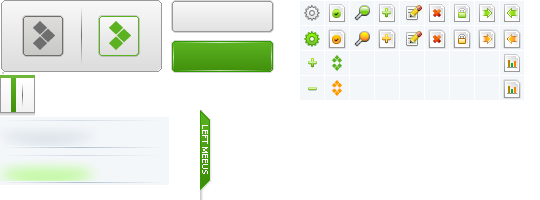
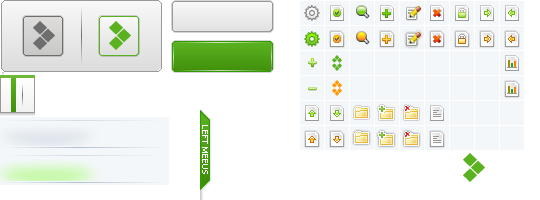
log

diff --git a/webmis/css/admin.css b/webmis/css/admin.css
@@ -20,11 +20,16 @@ input:focus, textarea:focus{
 
 .UI{background-image:url("../images/admin_ui.jpg"); background-repeat: no-repeat; background-position:0px 0px;}
 
+/* Checkbox */
+#checkboxY,#checkboxN{padding: 2px 6px;}
+#checkboxN{display: none;}
+
 /* Color */
 .c666{color: #666;}
 .c999{color: #999;}
 .green{color: green;}
 .red{color: #D34600;}
+
 /* login */
 .login_bg{background: url("../images/admin_login_bg.gif") top repeat-x #B6B6B6;}
 .login_top_bg{background: url("../images/admin_top_bg.jpg") top right no-repeat;}
@@ -121,10 +126,23 @@ input:focus, textarea:focus{
 .action_chart em{background-position: -500px -52px;}
 .action_chart:hover em{background-position: -500px -78px;}
 
+.action_upload em{background-position: -300px -102px;}
+.action_upload:hover em{background-position: -300px -128px;}
+.action_down em{background-position: -325px -102px;}
+.action_down:hover em{background-position: -325px -128px;}
+.action_folder em{background-position: -350px -102px;}
+.action_folder:hover em{background-position: -350px -128px;}
+.action_addfolder em{background-position: -375px -102px;}
+.action_addfolder:hover em{background-position: -375px -128px;}
+.action_delfolder em{background-position: -400px -102px;}
+.action_delfolder:hover em{background-position: -400px -128px;}
+.action_file em{background-position: -425px -102px;}
+.action_file:hover em{background-position: -425px -128px;}
+
 
 /* Table */
 .table_list{width: 100%; border-collapse: collapse; text-align: center; border-top: #6FB737 2px solid; background: #FFF;}
-.table_list td{border: #CFCFCF 1px solid; padding: 6px 5px;}
+.table_list td{border: #CFCFCF 1px solid; padding: 5px;}
 .table_list .title{color: #666; font-weight: bold; background: url("../images/admin_tb_x.jpg") repeat-x #F4F7FA;}
 .page{height: 50px; line-height: 50px; text-align: center; color: #999; background: url("../images/admin_top_nav_x.jpg") 0 -71px repeat-x;}
 

diff --git a/webmis/css/webmis.css b/webmis/css/webmis.css
@@ -43,7 +43,7 @@
 .Validform_wrong{color:red; white-space:nowrap; background:url(../images/error.png) no-repeat left center;}
 .Validform_loading{padding-left:20px; background:url(../images/onLoad.gif) no-repeat left center;}
 .Validform_error{background-color:#ffe7e7;}
-#Validform_msg{color:#7d8289; font: 12px/1.5 tahoma, arial, \5b8b\4f53, sans-serif; width:280px; -webkit-box-shadow:2px 2px 3px #aaa; -moz-box-shadow:2px 2px 3px #aaa; background:#fff; position:absolute; top:0px; right:50px; z-index:99999; display:none;filter: progid:DXImageTransform.Microsoft.Shadow(Strength=3, Direction=135, Color='#999999');}
+#Validform_msg{color:#7d8289; font: 12px/1.5 tahoma, arial, \5b8b\4f53, sans-serif; width:280px; box-shadow:2px 2px 3px #aaa; background:#fff; position:absolute; top:0px; right:50px; z-index:99999; display:none;filter: progid:DXImageTransform.Microsoft.Shadow(Strength=3, Direction=135, Color='#999999');}
 #Validform_msg .iframe{position:absolute; left:0px; top:-1px; z-index:-1;}
 #Validform_msg .Validform_title{line-height:25px; height:25px; text-align:left; font-weight:bold; padding:0 8px; color:#fff; position:relative; background-color:#000;}
 #Validform_msg a.Validform_close:link,#Validform_msg a.Validform_close:visited{line-height:22px; position:absolute; right:8px; top:0px; color:#fff; text-decoration:none;}

diff --git a/webmis/js/admin.js b/webmis/js/admin.js
@@ -15,6 +15,7 @@ $(function(){
 		}else{
 			$("#top").slideUp('fast');
 		}
+		return false;
 	});
 	//显示、隐藏左侧菜单
 	$('#LeftMenus').click(function(){
@@ -23,15 +24,22 @@ $(function(){
 		}else{
 			$("#tb_left").hide();
 		}
+		return false;
+	});
+	//全选,全不选
+	$('#checkboxY').click(function () {
+		$(this).hide();
+		$(this).parent().parent().parent().parent().find("input:checkbox").prop("checked", true);
+		$('#checkboxN').show().click(function () {
+			$(this).hide();
+			$('#checkboxY').show();
+			$(this).parent().parent().parent().parent().find("input:checkbox").prop("checked", false);
+			return false;
+		});
+		return false;
 	});
 });
-//全选,全不选
-function All(){
-	$("input:checkbox").attr("checked", true);
-}
-function delAll(){
-	$("input:checkbox").removeAttr("checked");
-}
+
 /*
 ** ******菜单操作******
 */

diff --git a/admin/js/system/sys_filemanager.js b/admin/js/system/sys_filemanager.js
@@ -1,0 +1,3 @@
+$(function () {
+	
+});

diff --git a/admin/app/views/system/filemanager/index.php b/admin/app/views/system/filemanager/index.php
@@ -1,0 +1,40 @@
+<!-- Action -->
+<div class="right_top">
+	<span class="right_action">
+		<div class="right_title"><?php echo $title; ?></div>
+		<?php echo $actionHtml; ?>
+		 <span>|</span>
+		 <a class="action_upload" href="#"><em class="UI">&nbsp;</em>上传</a>
+		 <span>|</span>
+		 <a class="action_addfolder" href="#"><em class="UI">&nbsp;</em>新建文件夹</a>
+		 <span>|</span>
+		 <a class="action_down" href="#"><em class="UI">&nbsp;</em>下载</a>
+		 <span>|</span>
+		 <a class="action_delfolder" href="#"><em class="UI">&nbsp;</em>删除</a>
+		 <span>|</span>
+		 <a class="action_file" href="#"><em class="UI">&nbsp;</em>文件</a>
+	</span>
+</div>
+<div class="right_line">&nbsp;</div>
+<!-- Action End -->
+<!-- Content -->
+<table class="table_list">
+	<tr>
+		<td colspan="6" align="left">
+			<span>当前位置：</span>
+			<span id="fileUrl">/upload/</span>
+			<span>&nbsp;&nbsp;|&nbsp;&nbsp;<a href="#" >返回上级</a></span>
+		</td>
+	</tr>
+	<tr class="title" id="table">
+		<td width="20"><a href="#" id="checkboxY">√</a><a href="#" id="checkboxN">×</a></td>
+		<td>名称</td>
+		<td width="120">创建时间</td>
+		<td width="120">修改时间</td>
+		<td width="80">大小</td>
+		<td width="40">权限</td>
+	</tr>
+	<tbody id="listBG">
+	</tbody>
+</table>
+<!-- Content End -->

diff --git a/admin/app/core/MY_Controller.php b/admin/app/core/MY_Controller.php
@@ -109,7 +109,7 @@ class MY_Controller extends CI_Controller {
 		$html = '';
 		foreach($nav as $val){
 			if(isset($permArr[$val->id])){
-				$html .= '<span id="nav_'.$val->id.'" class="nav_an2"><a href="#" onclick="menuOne(\''.$val->id.'\')">'.$val->title.'</a></span>';
+				$html .= '<span id="nav_'.$val->id.'" class="nav_an2"><a href="#" onclick="menuOne(\''.$val->id.'\');return false;">'.$val->title.'</a></span>';
 				$html .= '<div class="line UI">&nbsp;</div>';
 			}
 		}

diff --git a/admin/app/views/system/menus/action/index.php b/admin/app/views/system/menus/action/index.php
@@ -10,7 +10,7 @@
 <!-- Content -->
 <table class="table_list">
 	<tr class="title" id="menus_action_table">
-		<td width="20"><a href="#" onclick="All()">Y</a>/<a href="#" onclick="delAll()">N</a></td>
+		<td width="20"><a href="#" id="checkboxY">√</a><a href="#" id="checkboxN">×</a></td>
 		<td width="60">ID</td>
 		<td width="80">名称</td>
 		<td width="80">权限值</td>

diff --git a/admin/app/views/system/log/login_v.php b/admin/app/views/system/log/login_v.php
@@ -10,7 +10,7 @@
 <!-- Content -->
 <table class="table_list">
 	<tr class="title" id="admin_log_table">
-		<td width="20"><a href="#" onclick="All()">Y</a>/<a href="#" onclick="delAll()">N</a></td>
+		<td width="20"><a href="#" id="checkboxY">√</a><a href="#" id="checkboxN">×</a></td>
 		<td width="60">ID</td>
 		<td width="60">类型</td>
 		<td width="120">用户名</td>

diff --git a/admin/app/views/web/class/index.php b/admin/app/views/web/class/index.php
@@ -10,7 +10,7 @@
 <!-- Content -->
 <table class="table_list">
 	<tr class="title" id="class_table">
-		<td width="20"><a href="#" onclick="All()">Y</a>/<a href="#" onclick="delAll()">N</a></td>
+		<td width="20"><a href="#" id="checkboxY">√</a><a href="#" id="checkboxN">×</a></td>
 		<td width="40">ID</td>
 		<td width="40">FID</td>
 		<td width="120">菜单名</td>

diff --git a/admin/app/views/system/admin/index.php b/admin/app/views/system/admin/index.php
@@ -10,7 +10,7 @@
 <!-- Content -->
 <table class="table_list">
 	<tr class="title" id="admin_table">
-		<td width="20"><a href="#" onclick="All()">Y</a>/<a href="#" onclick="delAll()">N</a></td>
+		<td width="20"><a href="#" id="checkboxY">√</a><a href="#" id="checkboxN">×</a></td>
 		<td width="60">ID</td>
 		<td width="120">用户名</td>
 		<td>Email</td>

diff --git a/admin/app/views/system/menus/index.php b/admin/app/views/system/menus/index.php
@@ -10,7 +10,7 @@
 <!-- Content -->
 <table class="table_list">
 	<tr class="title" id="menus_table">
-		<td width="20"><a href="#" onclick="All()">Y</a>/<a href="#" onclick="delAll()">N</a></td>
+		<td width="20"><a href="#" id="checkboxY">√</a><a href="#" id="checkboxN">×</a></td>
 		<td width="40">ID</td>
 		<td width="40">FID</td>
 		<td>菜单名</td>

diff --git a/admin/app/views/web/book/index.php b/admin/app/views/web/book/index.php
@@ -10,7 +10,7 @@
 <!-- Content -->
 <table class="table_list">
 	<tr class="title" id="book_table">
-		<td width="20"><a href="#" onclick="All()">Y</a>/<a href="#" onclick="delAll()">N</a></td>
+		<td width="20"><a href="#" id="checkboxY">√</a><a href="#" id="checkboxN">×</a></td>
 		<td width="40">ID</td>
 		<td>标题</td>
 		<td>留言内容</td>
